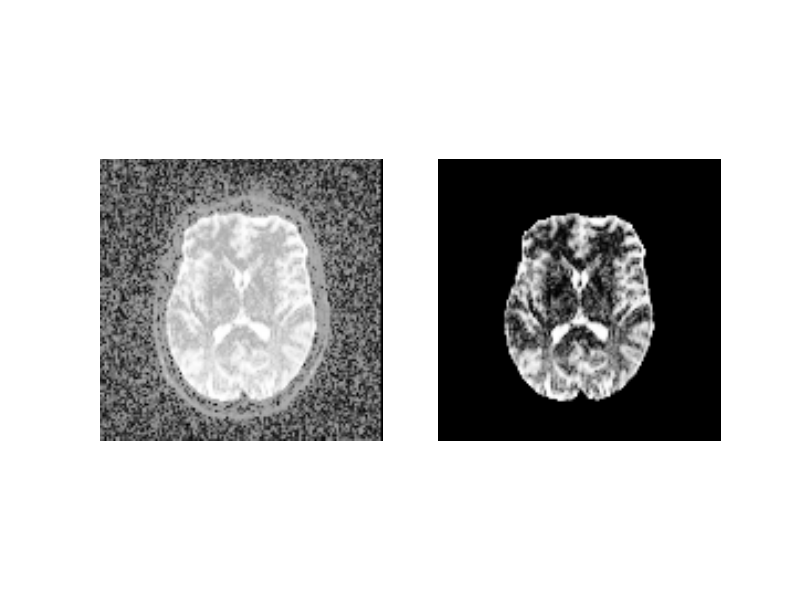
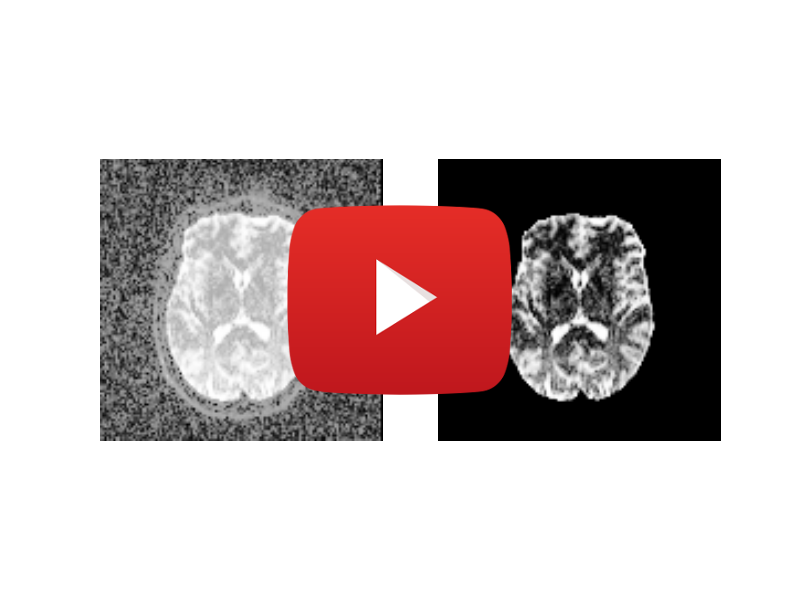
added graphics to about page

Changed region(s): [[0.3438, 0.33, 0.6562, 0.66]]

diff --git a/about.html b/about.html
@@ -117,33 +117,31 @@
 			
 		<div id="what-is-rz"><h2>What is ReproZip?</h2></div>
       
-    <img src="imgs/">
+    <img src="imgs/rz-overview.png" style="float:left;" class="img-fluid">  
       
     <p>ReproZip is an open source tool that helps users make their work completely reproducible. ReproZip can be used to reproduce a plethora of applications, including data analysis tools, scripts and software written in any programming language, graphical tools, interactive tools, client-server applications (including databases), Jupyter notebooks, and more!</p>
       
-		<p>ReproZip works by tracing the systems calls used by the experiment to automatically identify which files should be included. Users can review and edit this list and the metadata before creating the final package file. Packages can be reproduced in different ways, including chroot environments, <a href="https://www.vagrantup.com/">Vagrant</a>-built virtual machines, and <a href="https://www.docker.com/">Docker</a> containers; more can be added through plugins. We are in the process of merging in a new unpacker for <a href="https://www.sylabs.io/docs/">Singularity</a> right now!</p>
-      
-    <img src="imgs/">
+		<p>ReproZip works by tracing the systems calls used by the experiment to automatically identify which files should be included. Users can review and edit this list and the metadata before creating the final package file. Packages can be reproduced in different ways, including chroot environments, <a href="https://www.vagrantup.com/">Vagrant</a>-built virtual machines, and <a href="https://www.docker.com/">Docker</a> containers; more can be added through plugins. We are in the process of merging in a new unpacker for <a href="https://www.sylabs.io/docs/">Singularity</a> right now!</p><br/><br/>
       
     <p>You can also view a few playlists we've compiled that demo how to pack and unpack different applications with ReproZip:</p>
       
       <div class="card-deck">
       <div class="card">
-        <img class="card-img-top" src="imgs/stacked-up.png" alt="stacked up example" height="180" width="255">
+        <a href="https://www.youtube.com/watch?v=SoE2nEJWylw&list=PLjgZ3v4gFxpXdPRBaFTh42w3HRMmX2WfD"><img class="card-img-top" src="imgs/stacked-up.png" alt="stacked up example" height="180" width="255" class="img-fluid"></a>
         <div class="card-body">
           <h5 class="card-title"><a href="https://www.youtube.com/watch?v=SoE2nEJWylw&list=PLjgZ3v4gFxpXdPRBaFTh42w3HRMmX2WfD">Stacked Up</a></h5>
           <p class="card-text">Dynamic website called Stacked Up, which was created as a data journalism project to assess whether kids in Philly schools have the books they need.</p>
         </div>
       </div>
       <div class="card">
-        <img class="card-img-top" src="imgs/brain-segmentation.png" alt="brain segmentation example" height="180" width="255">
+        <a href="https://www.youtube.com/watch?v=gs4s2JH8Yw4&list=PLjgZ3v4gFxpW_lesrw1ZE2Ql1yXDsgzki"><img class="card-img-top" src="imgs/brain-segmentation.png" alt="brain segmentation example" height="180" width="255" class="img-fluid"></a>
         <div class="card-body">
           <h5 class="card-title"><a href="https://www.youtube.com/watch?v=gs4s2JH8Yw4&list=PLjgZ3v4gFxpW_lesrw1ZE2Ql1yXDsgzki">Brain Segmentation</a></h5>
           <p class="card-text">Neuroscience experiment, which uses a python script that extracts brain information and mask from an input image.</p>
         </div>
       </div>
       <div class="card">
-        <img class="card-img-top" src="imgs/jupyter.png" alt="jupyter notebook with reprozip" height="180" width="255">
+        <a href="https://www.youtube.com/watch?v=Y8YmGVYHhS8&list=PLjgZ3v4gFxpWb277AEyjsVerB6nViGTVL"><img class="card-img-top" src="imgs/jupyter.png" alt="jupyter notebook with reprozip" height="180" width="255" class="img-fluid"></a>
         <div class="card-body">
           <h5 class="card-title"><a href="https://www.youtube.com/watch?v=Y8YmGVYHhS8&list=PLjgZ3v4gFxpWb277AEyjsVerB6nViGTVL">Jupyter Notebook</a></h5>
           <p class="card-text">An example of how to use the reprozip-jupyter plugin to easily capture notebooks with ReproZip.</p>
@@ -158,7 +156,12 @@
     <div id="motive"><h2>Motivation</h2></div>
    
     <p>Reproducibility is a core component of the scientific process: it helps researchers all around the world to verify the results and also to build on them, alowing science to move forward. In natural science, long tradition requires experiments to be described in enough detail so that they can be reproduced by researchers around the world. The same standard, however, has not been widely applied to computational science, where researchers often have to rely on plots, tables, and figures included in papers, which loosely describe the obtained results.</p>
-
+        
+    <figure class="figure mr-2" style="float:left;">
+      <img src="imgs/pyramid.png" class="figure-img img-fluid">
+      <figcaption class="figure-caption">Reproducibility pyramid.</figcaption>  
+    </figure>
+        
      <p>The truth is computational reproducibility can be very painful to achieve for a number of reasons. Take the author-reviewer scenario of a scientific paper as an example. Authors must generate a compendium that encapsulates all the inputs needed to correctly reproduce their experiments: the data, a complete specification of the experiment and its steps, and information about the originating computational environment (OS, hardware architecture, and library dependencies). Keeping track of this information manually is rarely feasible: it is both time-consuming and error-prone. First, computational environments are complex, consisting of many layers of hardware and software, and the configuration of the OS is often hidden. Second, tracking library dependencies is challenging, especially for large experiments. If authors did not plan for it since the beginning of the project, reproducibility is drastically hampered.</p>
 
       <p>For reviewers, even with a compendium in their hands, it may be hard to reproduce the results. There may be no instructions about how to execute the code and explore it further; the experiment may not run on his operating system; there may be missing libraries; library versions may be different; and several issues may arise while trying to install all the required dependencies, a problem colloquially known as <a href="https://en.wikipedia.org/wiki/Dependency_hell" rel="noopener">dependency hell</a>.</p>
